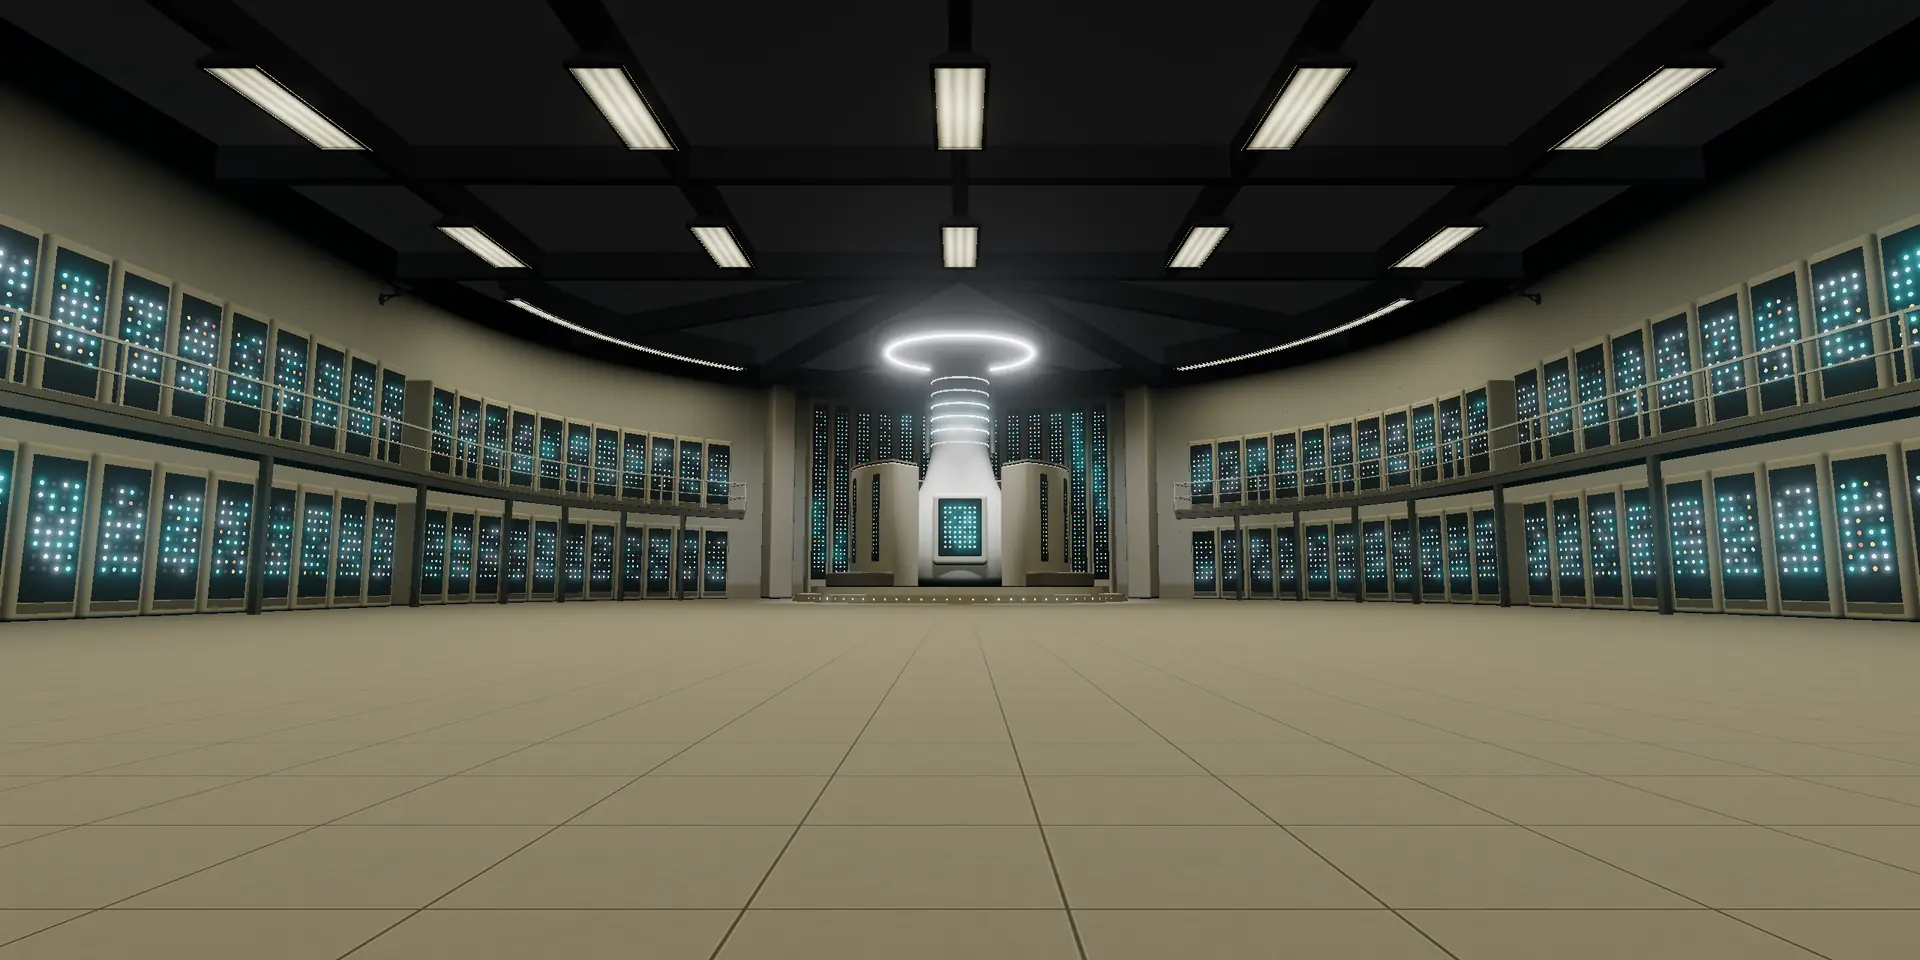
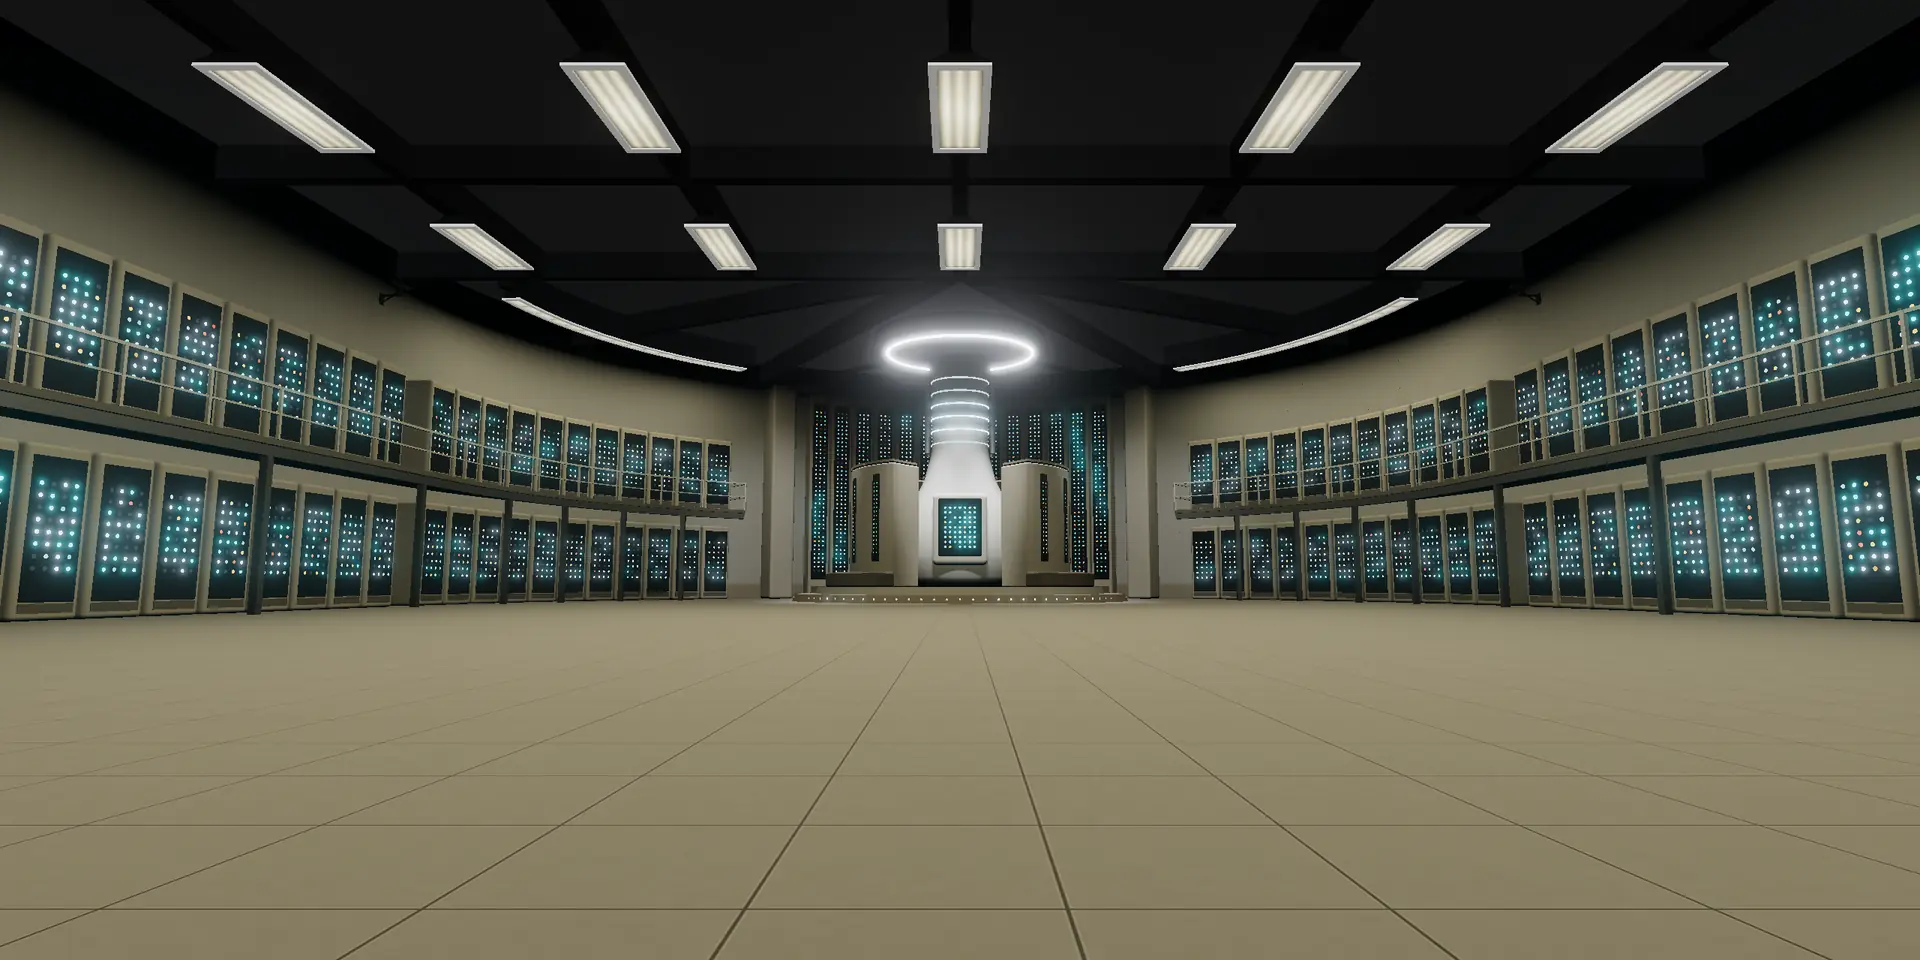
Server light frames: bigger, overlapping the diffusers, below-frame area lights, shaded light grey (no lit sliver outside); retaken stills

diff --git a/src/scene/serverRoom.js b/src/scene/serverRoom.js
@@ -123,22 +123,24 @@ export function buildServerRoom(m) {
     arcStrip(b, m.serverBeam, BAY_RING_R, a0 - 2 * DEG, a1 + 2 * DEG, C - 0.75, C, 0.36, 3);
     arcStrip(b, m.serverBeam, BAY_RING_R, a0, a1, C - 0.95, C - 0.75, 0.5, 3);
     arcStrip(b, m.serverBayStrip, BAY_RING_R, a0 + 0.3 * DEG, a1 - 0.3 * DEG, C - 0.97, C - 0.95, 0.42, 3);
-    // Light grey frame around the strip (like the command-room fixtures): both long edges and end caps.
-    for (const dr of [-0.235, 0.235]) arcStrip(b, m.fixtureFrame, BAY_RING_R + dr, a0, a1, C - 0.995, C - 0.955, 0.07, 3);
+    // Light grey frame around the strip: both long edges and end caps, overlapping the diffuser by 3 cm and hanging
+    // below the light plane (see FRAME_* below).
+    for (const dr of [-0.23, 0.23]) arcStrip(b, m.fixtureFrame, BAY_RING_R + dr, a0, a1, FRAME_Y0, FRAME_Y1, 0.1, 3);
     for (const a of [a0, a1]) {
       const [x, z] = arcPt(BAY_RING_R, a);
-      b.box(m.fixtureFrame, 0.54, 0.04, 0.07, x, C - 0.975, z, [0, a, 0]); // local x along the radius
+      b.box(m.fixtureFrame, 0.56, FRAME_Y1 - FRAME_Y0, 0.1, x, (FRAME_Y0 + FRAME_Y1) / 2, z, [0, a, 0]); // local x along the radius
     }
   }
   for (const [x, z, row] of FIXTURES) {
     b.add(HOUSING, m.serverBeam, [x, C - 0.95, z]); // housing, flowing up into its beam
     b.span(m.serverFixtureRows[row], x - 0.42, x + 0.42, C - 0.97, C - 0.95, z - 1.42, z + 1.42);
-    // Light grey frame ring around the diffuser, standing just proud of it (as in the command room).
-    const fy0 = C - 0.995, fy1 = C - 0.955;
-    b.span(m.fixtureFrame, x - 0.5, x + 0.5, fy0, fy1, z - 1.5, z - 1.42);
-    b.span(m.fixtureFrame, x - 0.5, x + 0.5, fy0, fy1, z + 1.42, z + 1.5);
-    b.span(m.fixtureFrame, x - 0.5, x - 0.42, fy0, fy1, z - 1.42, z + 1.42);
-    b.span(m.fixtureFrame, x + 0.42, x + 0.5, fy0, fy1, z - 1.42, z + 1.42);
+    // Light grey frame ring around the diffuser: overlaps it by 3 cm, overhangs the housing by 3 cm, and hangs below the
+    // area light's plane, so no lit sliver shows outside it (user: light looked like it spilled past the frames).
+    const i = 0.39, o = 0.53, zi = 1.39, zo = 1.53;
+    b.span(m.fixtureFrame, x - o, x + o, FRAME_Y0, FRAME_Y1, z - zo, z - zi);
+    b.span(m.fixtureFrame, x - o, x + o, FRAME_Y0, FRAME_Y1, z + zi, z + zo);
+    b.span(m.fixtureFrame, x - o, x - i, FRAME_Y0, FRAME_Y1, z - zi, z + zi);
+    b.span(m.fixtureFrame, x + i, x + o, FRAME_Y0, FRAME_Y1, z - zi, z + zi);
   }
 
   // ---- catwalks: along both side walls, around the bay (stopping short of the supercomputer),
@@ -205,6 +207,9 @@ export function buildServerRoom(m) {
 // strips over its catwalks instead of rectangular panels (they didn't fit the round end).
 const ROW_Z = [-4.6, -11.4, -18.2, -25.0];
 const FIX_X = [-12, -6, 0, 6, 12]; // fixture columns = the lengthwise beams
+// Fixture frames run from the housing's underside (C - 0.95) to C - 1.01; the area lights sit just below them (C - 1.02).
+// (The lights used to sit at C - 0.98, inside the frames' height, which lit a bright sliver on the frames' outer sides.)
+const FRAME_Y0 = C - 1.01, FRAME_Y1 = C - 0.95, LIGHT_Y = C - 1.02;
 const CROSS_Z = [-8.0, -14.8, -21.6, SERVER.zMin]; // cross beams midway between rows, and the hall/bay edge beam
 const FIXTURES = ROW_Z.flatMap((z, row) => FIX_X.map((x) => [x, z, row]));
 // Fixture housing cross-section (user: the frames didn't attach to the beams convincingly): a 1 m wide, 8 cm deep body
@@ -292,7 +297,7 @@ export function buildServerLights(m) {
   // its five panels), striking with that row in the reveal...
   ROW_Z.forEach((z, row) => {
     const r = new THREE.RectAreaLight(white, 0, 25, 3);
-    r.position.set(0, C - 0.98, z);
+    r.position.set(0, LIGHT_Y, z);
     r.rotation.x = -Math.PI / 2;
     group.add(r);
     room.push({ light: r, max: 1.7, row });
@@ -303,7 +308,7 @@ export function buildServerLights(m) {
     const chord = 2 * BAY_RING_R * Math.sin((a1 - a0) / 2);
     const r = new THREE.RectAreaLight(white, 0, chord, 2.4);
     const [x, z] = arcPt(BAY_RING_R * Math.cos((a1 - a0) / 2), ac);
-    r.position.set(x, C - 0.98, z);
+    r.position.set(x, LIGHT_Y, z);
     r.rotation.order = 'YXZ';
     r.rotation.set(-Math.PI / 2, ac - Math.PI / 2, 0); // face down, width along the chord
     group.add(r);
@@ -320,5 +325,7 @@ export function buildServerLights(m) {
   fixtures.push({ mat: m.serverCeiling, max: new THREE.Color(0x232323), row: 0 }); // #232323 (user)
   // Beams and fixture housings: a couple of shades darker than the ceiling (they were pure black too).
   fixtures.push({ mat: m.serverBeam, max: new THREE.Color(0x1a1a1a), row: 0 }); // #1A1A1A (user)
+  // Fixture frames: light grey (user), shaded like the beams so they always read as light grey rather than unlit-dark.
+  fixtures.push({ mat: m.fixtureFrame, max: new THREE.Color(0xdcdbd7), row: 0 });
   return { group, room, fixtures };
 }

diff --git a/src/scene/materials.js b/src/scene/materials.js
@@ -190,8 +190,10 @@ export function createMaterials(maxAnisotropy = 4) {
   // Curved strip fixtures around the north bay (chord pieces whose long axis is the texture's u).
   // Light grey frames around the server-room fixtures: a slight contrast with that ceiling (user).
   // Lightened a couple of shades of grey (was 0xc4c3bf; user). Server room only: the command room's frames are beige.
-  m.fixtureFrame = new THREE.MeshStandardMaterial({ color: 0xdcdbd7, roughness: 0.88, metalness: 0 });
-  m.fixtureFrame.shadowSide = THREE.FrontSide;
+  // No light reaches the frames' faces either, so they used to look dark; matcap-shaded like the beams, brought up to
+  // 0xdcdbd7 by the reveal (serverRoom.js).
+  m.fixtureFrame = new THREE.MeshMatcapMaterial({ color: 0x000000, matcap: shadeMatcap() });
+  m.fixtureFrame.toneMapped = false;
   // Server-room ceiling: unlit (black) until the reveal brings it up to anthracite with the first row.
   m.serverCeiling = new THREE.MeshBasicMaterial({ color: 0x000000, toneMapped: false });
   // Beams + fixture housings: no light reaches them either, but flat color hid their shape (the housings' coves into

diff --git a/CLAUDE.md b/CLAUDE.md
@@ -446,6 +446,12 @@ nearest-first (tube sounds at 100/60/40 % per row), back wash +0.3 s, fans fade 
   above the beam bottom. `m.serverBeam` became a **MeshMatcapMaterial** (procedural grey `shadeMatcap()`, color = the
   power level × #1A1A1A, toneMapped off): no light reaches the ceiling, and flat color hid every curve; the matcap
   shades by surface angle alone (faces toward the viewer ~95 % of the color, grazing ones darker).
+  **Bigger frames, lights below them** (user: light seemed to spill past the frames): the area lights sat at C - 0.98,
+  inside the frames' 4 cm height, so the frames' outer sides got a lit sliver while their undersides stayed dark. Now
+  frames run C - 0.95 .. C - 1.01 (`FRAME_Y0/Y1`), overlap the diffuser by 3 cm and overhang the housing by 3 cm (hall:
+  inner 0.39 / outer 0.53 half-widths, ends 1.39 / 1.53; bay strips: 0.1 wide at ±0.23), the area lights are at
+  `LIGHT_Y` C - 1.02, and `m.fixtureFrame` is matcap-shaded like the beams (0xdcdbd7 at full power, row 0), so frames
+  always read as light grey.
 - **Supercomputer face panel:** the beige surround now runs from z 1.0 (deep inside the bulbous base, so it grows out of
   it instead of floating off it at the top corners) to 2.38 (just past the bulge's widest point, r 2.2, which used to
   poke through its front near the bottom). The dark panel and LEDs moved out with it.
